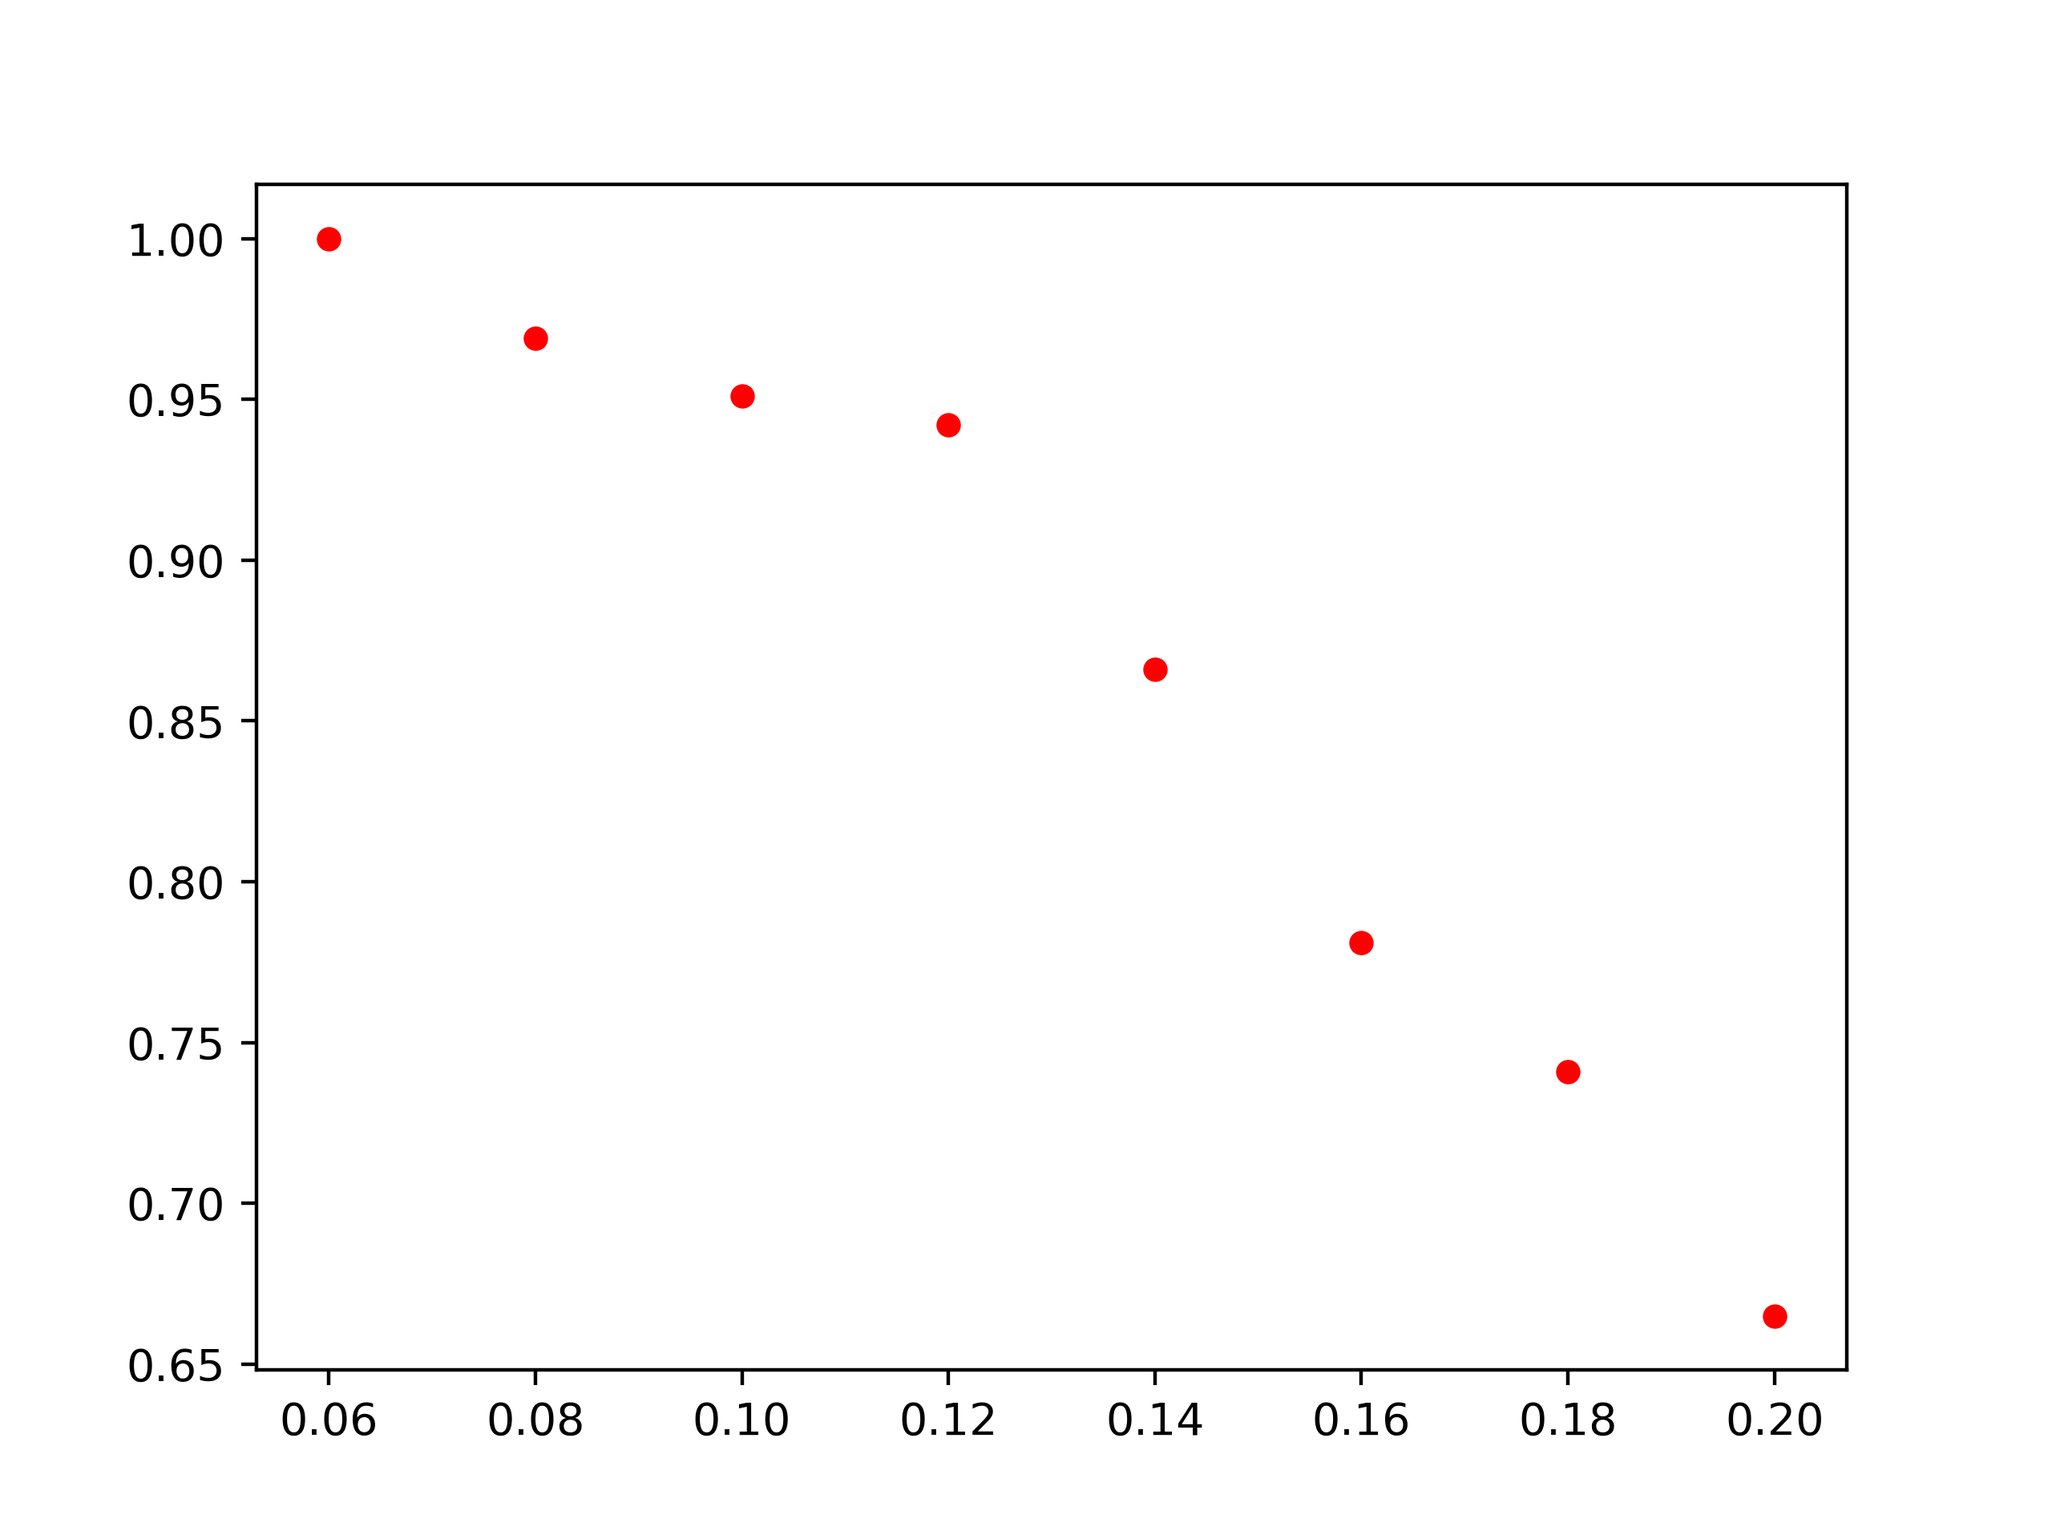
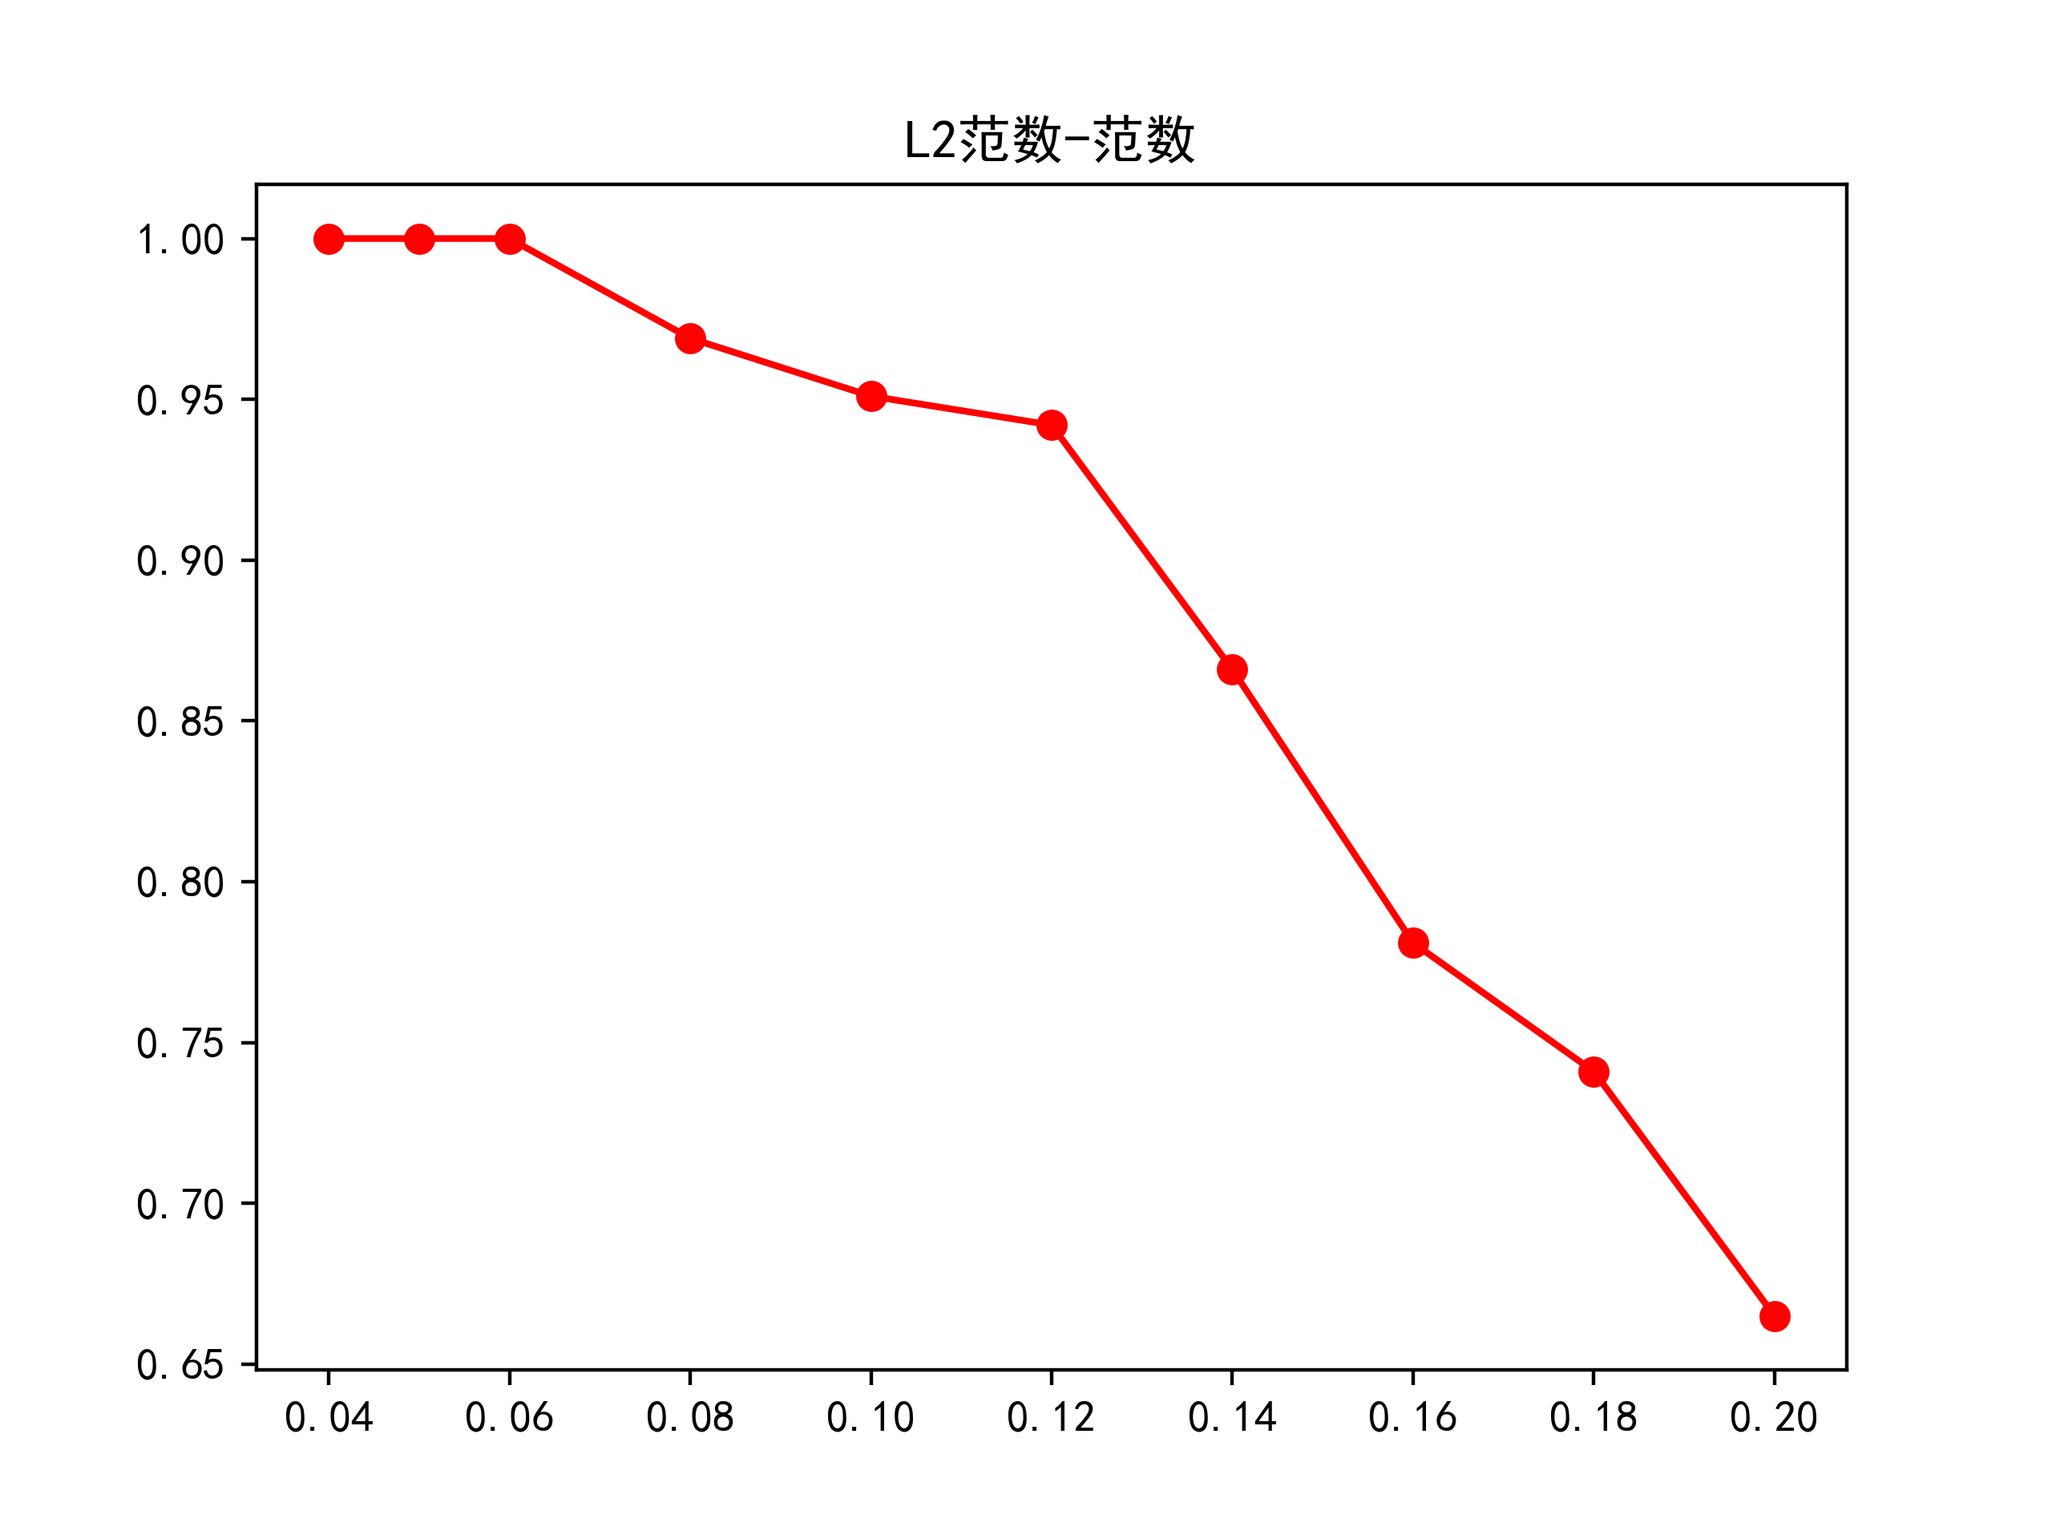
All Code

diff --git a/MCM/question2/unbounded_err_simulate.py b/MCM/question2/unbounded_err_simulate.py
@@ -1,21 +1,27 @@
-from array import array
-from cmath import tan
 import numpy as np
 import matplotlib.pyplot as plt
 import random
 
-from test import angle
 
-#计算不限定误差率情况下正确率
 
-MaxTestNum = 100
+#此程序计算不限定误差率情况下的正确率以及分布图
+#并且对正态分布下的标准差变化绘图
 
-# 夹角计算函数
+MaxTestNum = 100        #每种情形测试数量
+
+#夹角计算
+def angle(b, a, c):
+    res = np.arccos(np.dot((b-a), (c-a)) /
+                    (np.sqrt(np.sum((b-a)*(b-a)))*np.sqrt(np.sum((c-a)*(c-a)))))
+    return res
+
+# 夹角计算函数，保留三位小数
 def angle1(b, a, c):
     res = np.arccos(np.dot((b-a), (c-a)) /
                     (np.sqrt(np.sum((b-a)*(b-a)))*np.sqrt(np.sum((c-a)*(c-a)))))
     return round(res, 3)
 
+# 定位函数，返回以FY00为原点的笛卡尔坐标系坐标 （若三点一线会报错，无法处理）
 def coordinate(t,alpha,beta,gamma):
     A = np.zeros((4, 1))
     x = np.zeros((4, 1))
@@ -26,54 +32,69 @@ def coordinate(t,alpha,beta,gamma):
         A[i] = (np.cos(t)/np.tan(b[i]) - np.sin(t) - 1/np.tan(a[i]))/(np.cos(t)+np.sin(t)/np.tan(b[i])-1)
         y[i] = (A[i] - 1/np.tan(a[i]))/(A[i]*A[i]+1)
         x[i] = A[i]*y[i]
-    O = np.array([0,0])
+    Ori = np.array([0,0])
     A = np.array([1,0])
     B = np.array([np.cos(t),np.sin(t)])
+    xx = 0
+    yy = 0
     for i in range(4):
-        C = np.array([x[i],y[i]])
-        if abs(angle1(A,C,O)-alpha) < 1e-5 and abs(angle(B,C,O)-beta)<1e-5 and abs(angle(A,C,B)-gamma) < 1e-5 :
-            xx = x[i]
-            yy = y[i]
+        C = np.array([x[i][0],y[i][0]])
+        if abs(angle(A,C,Ori)-alpha) < 1e-3 and abs(angle(B,C,Ori)-beta)<1e-3 and abs(angle(A,C,B)-gamma) < 1e-3 :
+            if xx == 0 and yy == 0:
+                xx = x[i][0]
+                yy = y[i][0]
+            else:
+                if abs(xx**2+yy**2-1) > abs(x[i][0]**2+ y[i][0]**2-1):
+                    xx = x[i][0]
+                    yy = y[i][0]
     return np.array([xx,yy])
 
-def normal_distribution(mu1,mu2,sigma1,sigma2,row):
+def normal_distribution(mu1,mu2,sigma):
     mean = [mu1,mu2]
-    cov =  [[sigma2**2,-row*sigma1*sigma2],[-row*sigma1*sigma2,sigma1**2]]
-    x,y = np.random.multivariate_normal(mean,cov,size=1)
-    return x,y
+    cov =  [[sigma**2,0],[0.0,sigma**2]]
+    Pt = np.random.multivariate_normal(mean,cov,1)
+    return round(Pt[0][0],2),round(Pt[0][1],2)
 
 # 初始化
-def init(i):
+# 返回四个信息，分别是AccNo, Angle, AccPoint , CorrectPoint
+# 前两者为接受无人机收到的信息，AccPoint为绘图信息, CorrectPoint为理想点坐标
+def init(i,sigma):
     # 固定发射无人机编号i
     # TransimitNo = [0, 1, i]
     TransimitPoint = [np.array([0, 0]), np.array([1, 0]), np.array([np.cos((i-1)*np.pi/4.5), np.sin((i-1)*np.pi/4.5)])]
     # 随机接受无人机编号并且以error误差确定其坐标
-    AccNo = random.randint(3, 9)
+    AccNo = random.randint(2, 9)
     while AccNo == i:
-        AccNo = random.randint(3, 9)
+        AccNo = random.randint(2, 9)
     CorrectPoint = np.array([np.cos((AccNo-1)*np.pi/4.5),np.sin((AccNo-1)*np.pi/4.5)])
     # 正态分布
-    x,y = normal_distribution(CorrectPoint[0],CorrectPoint[1],0.1,0.1,1)
+    x,y = normal_distribution(CorrectPoint[0],CorrectPoint[1],sigma)
     AccPoint = np.array([x,y])
+
     # 计算获得的三个角度 顺序为 0-j-1,0-j-i,1-j-i
-    Angle = np.array([angle1(TransimitPoint[0], AccPoint, TransimitPoint[1])])
-    Addarr = np.array([angle1(TransimitPoint[0], AccPoint, TransimitPoint[2]), angle1(TransimitPoint[1], AccPoint, TransimitPoint[2])])
-    # 前两者为接受无人机收到的信息，AccPoint为绘图信息
+    Angle = np.array([angle(TransimitPoint[0], AccPoint, TransimitPoint[1]),angle(TransimitPoint[0], AccPoint, TransimitPoint[2]),\
+        angle(TransimitPoint[1], AccPoint, TransimitPoint[2])])
+
+    # 前两者为接受无人机收到的信息，AccPoint为绘图信息,CorrectPoint为理想点坐标
     return AccNo, Angle, AccPoint , CorrectPoint
 
+# 获取两点之间距离
 def getdistance(pt1,pt2):
-    return 
+    return np.sum(np.square(pt1-pt2))
 
-# 其他根据角度信息Coordinate
+# 其他节点根据角度信息Coordinate，和正确坐标进行比较，如果存在距离小于等于distance，返回错误，如果距离都大于distance，返回正确
 def CompareWithOtherPointCoordinate(distance,Angles,Except,TruePt):
     for i in range(2,10):
         if i != Except[0] and i != Except[1]:
             CoordinatePt = coordinate((i-1)*np.pi/4.5,Angles[0],Angles[1],Angles[2])
+            if CoordinatePt[0] == 0 and CoordinatePt[1] == 0:
+                continue
             Comparedistance = getdistance(CoordinatePt,TruePt)
-            if Comparedistance < distance:
+            if Comparedistance <= distance:
                 return False
     return True
 
+# 绘制子图信息
 def trans(i):
     if i == 0:
         return [0, 0]
@@ -84,28 +105,75 @@ def trans(i):
     if i == 3:
         return [1, 1]
 
-
+# 模拟程序(绘图版本)
 def run_simulation():
-    CorrectPoint = [np.array([0, 0])]
+    CorrectPoints = [np.array([0, 0])]
     for point in range(1, 10):
-        CorrectPoint.append(np.array([np.cos((point-1)*np.pi/4.5), np.sin((point-1)*np.pi/4.5)]))
+        CorrectPoints.append(np.array([np.cos((point-1)*np.pi/4.5), np.sin((point-1)*np.pi/4.5)]))
 
     # 使支持中文
     plt.rcParams['font.sans-serif'] = ['SimHei']
     plt.rcParams['axes.unicode_minus'] = False
     
     # 绘制子图
-    plt.figure()
     fig, axs = plt.subplots(2, 2 ,figsize=(12,12))
 
     for i in range(2, 6):
         for _ in range(MaxTestNum):
-            No, Angles, AccPoint,CorrectPoint = init(i)
+            No, Angles, AccPoint, CorrectPoint = init(i,0.1)
             TrueCoordinate = coordinate((i-1)*np.pi/4.5,Angles[0],Angles[1],Angles[2])
+            if TrueCoordinate[0] == 0 and TrueCoordinate[1] == 0:
+                print('---bug---')
             distance = getdistance(TrueCoordinate,CorrectPoint)
             reliable = CompareWithOtherPointCoordinate(distance,Angles,[i,No],CorrectPoint)
             if reliable:
-                axs[trans(i-2)[0], trans(i-2)[1]].scatter(AccPoint[0],AccPoint[1],s=10,c='r')
+                p2 = axs[trans(i-2)[0], trans(i-2)[1]].scatter(AccPoint[0],AccPoint[1],s=10,c='r')
             else:
-                axs[trans(i-2)[0], trans(i-2)[1]].scatter(AccPoint[0],AccPoint[1],c='b')
-    plt.show()
+                p3 = axs[trans(i-2)[0], trans(i-2)[1]].scatter(AccPoint[0],AccPoint[1],s=10,c='b')
+        x = [point[0] for point in CorrectPoints]
+        y = [point[1] for point in CorrectPoints]
+        TranMitX = [CorrectPoints[0][0],CorrectPoints[1][0],CorrectPoints[i][0]]
+        TranMitY = [CorrectPoints[0][1],CorrectPoints[1][1],CorrectPoints[i][1]]
+        p1_2 = axs[trans(i-2)[0], trans(i-2)[1]].scatter(x, y, c='g',s = 20)
+        p1_1 = axs[trans(i-2)[0], trans(i-2)[1]].scatter(TranMitX, TranMitY, c='k',s = 20)
+    fig.legend([p1_1,p1_2,p2,p3], [u'发射机',u'接受机正确位置',u'接收机偏移有效定位位置',u'接收机偏移出错定位位置'])
+    path='./unbounded_err_distribution.png'
+    plt.savefig(path,dpi=400)
+
+# 模拟程序(无绘图版本)
+def run_simulation_WithoutPlot(sigma):
+    Correctency = 0
+    for i in range(2, 6):
+        for _ in range(MaxTestNum):
+            No, Angles, AccPoint, CorrectPoint = init(i,sigma)
+            TrueCoordinate = coordinate((i-1)*np.pi/4.5,Angles[0],Angles[1],Angles[2])
+            # 若三点一线会报错，无法处理
+            if TrueCoordinate[0] == 0 and TrueCoordinate[1] == 0:
+                print('---Three Point In Line!---')
+            distance = getdistance(TrueCoordinate,CorrectPoint)
+            reliable = CompareWithOtherPointCoordinate(distance,Angles,[i,No],CorrectPoint)
+            if reliable:
+                Correctency = Correctency + 1
+    return round(float(Correctency)/4/MaxTestNum,3)
+
+# 标准差减少计算正确率曲线
+def std_correctency():
+    plt.rcParams['font.sans-serif'] = ['SimHei']
+    plt.rcParams['axes.unicode_minus'] = False
+    
+    stds = np.linspace(0.1,0.6,6)
+    Correctencys = []
+    for sigma in stds:
+        Correctency = run_simulation_WithoutPlot(sigma)
+        Correctencys.append(Correctency)
+    plt.plot(stds,Correctencys,"or-",label="标准差-正确率曲线")
+    plt.xlabel("标准差")
+    plt.ylabel("正确率")
+    plt.legend(loc='best')
+    path='./unbounded_err.png'
+    plt.savefig(path,dpi=400)
+
+#分布图
+# run_simulation()
+#描绘出标准差-正确率
+std_correctency()

diff --git a/MCM/question2/simulate.py b/MCM/question2/simulate.py
@@ -13,7 +13,7 @@ def angle1(b, a, c):
                     (np.sqrt(np.sum((b-a)*(b-a)))*np.sqrt(np.sum((c-a)*(c-a)))))
     return round(res, 3)
 
-
+#计算范数+处理
 def caculateV(v1, v2, kind):
     # 去除最大的计算范数
     a = np.delete(v1, np.argmax(v1))
@@ -25,7 +25,6 @@ def caculateV(v1, v2, kind):
         return V2(a, b)
     else:
         return V3(a, b)
-
 
 # 1-范数
 def V1(a, b):
@@ -40,7 +39,6 @@ def V2(a, b):
 # 无穷范数
 def V3(a, b):
     return np.max(np.abs(a-b))
-
 
 # 计算所有三元数个数
 def create_three_element_tuple():
@@ -70,38 +68,10 @@ def create_three_element_tuple():
             mydic[tuple(list(mylist[k, 2:]))] = [tuple(list(mylist[k, 0:2]))]
     return mydic
 
-
-# 初始化
-def init(i):
-    # 固定发射无人机编号i
-    # TransimitNo = [0, 1, i]
-    TransimitPoint = [np.array([0, 0]), np.array([1, 0]), np.array([np.cos((i-1)*np.pi/4.5), np.sin((i-1)*np.pi/4.5)])]
-    # 随机接受无人机编号并且以error误差确定其坐标
-    AccNo = random.randint(3, 9)
-    while AccNo == i:
-        AccNo = random.randint(3, 9)
-    AccPoint = np.array([np.cos((AccNo-1)*np.pi/4.5)+AccRangeErr*(2*random.random()-1),
-                        np.sin((AccNo-1)*np.pi/4.5)+AccRangeErr*(2*random.random()-1)])
-    # 计算获得的三个角度
-    Angle = np.array([angle1(TransimitPoint[0], AccPoint, TransimitPoint[1])])
-    Addarr = np.array([angle1(TransimitPoint[0], AccPoint, TransimitPoint[2]), angle1(TransimitPoint[1], AccPoint, TransimitPoint[2])])
-    Addarr = np.sort(Addarr)
-    Angle = np.append(Angle, Addarr)
-
-    # 前两者为接受无人机收到的信息，AccPoint为绘图信息
-    return AccNo, Angle, AccPoint
-
-
 def init_re(i, AccNo, AccPoint):
     # 固定发射无人机编号i
     # TransimitNo = [0, 1, i]
     TransimitPoint = [np.array([0, 0]), np.array([1, 0]), np.array([np.cos((i-1)*np.pi/4.5), np.sin((i-1)*np.pi/4.5)])]
-    # 随机接受无人机编号并且以error误差确定其坐标 -- 放弃
-    # AccNo = random.randint(3, 9)
-    # while AccNo == i:
-    #     AccNo = random.randint(3, 9)
-    # AccPoint = np.array([np.cos((AccNo-1)*np.pi/4.5)+AccRangeErr*(2*random.random()-1),
-    #                     np.sin((AccNo-1)*np.pi/4.5)+AccRangeErr*(2*random.random()-1)])
     # 计算获得的三个角度
     Angle = np.array([angle1(TransimitPoint[0], AccPoint, TransimitPoint[1])])
     Addarr = np.array([angle1(TransimitPoint[0], AccPoint, TransimitPoint[2]), angle1(TransimitPoint[1], AccPoint, TransimitPoint[2])])
@@ -138,35 +108,6 @@ def compare(angles, No, kind):
         if tuple[1] == No:
             return tuple[0]
     return -1
-
-
-# 模拟算法 
-# kind = 1 1-范数 kind = 2 2-范数 kind = 3 无穷范数
-def runSimulation(kind):
-    CorrectPoint = [np.array([0, 0])]
-    for point in range(1, 10):
-        CorrectPoint.append(np.array([np.cos((point-1)*np.pi/4.5), np.sin((point-1)*np.pi/4.5)]))
-    for i in range(2, 10):
-        for _ in range(MaxTestNum):
-            No, Angles, AccPoint = init(i)
-            Caculate = compare(Angles, No, kind)
-            # 算法推断正确
-            if Caculate == i:
-                plt.scatter(AccPoint[0], AccPoint[1], c='r')
-            # 计算错误
-            else:
-                print(No)
-                print(Caculate)
-                print(Angles)
-                print(AccPoint)
-                plt.scatter(AccPoint[0], AccPoint[1], c='b')
-            x = [point[0] for point in CorrectPoint]
-            y = [point[1] for point in CorrectPoint]
-            cArr = ['g' for _ in CorrectPoint]
-            cArr[0] = cArr[1] = cArr[i] = 'k'
-            plt.scatter(x, y, c=cArr)
-        plt.show()
-
 
 def trans(i):
     if i == 0:
@@ -223,7 +164,6 @@ def runSimulation_re(kind):
     fig.legend([p1_1,p1_2,p2,p3], [u'发射机',u'接受机正确位置',u'接收机偏移有效定位位置',u'接收机偏移出错定位位置'])
     path = './{kind}.png'.format(kind = kind)
     plt.savefig(path,dpi = 400)
-    # plt.show()
 
 dict = create_three_element_tuple()
 for kind in range(1,4):

diff --git a/MCM/question2/err_correctency.py b/MCM/question2/err_correctency.py
@@ -1,4 +1,3 @@
-from importlib.resources import path
 import numpy as np
 from cmath import *
 import matplotlib.pyplot as plt
@@ -15,7 +14,7 @@ def angle1(b, a, c):
                     (np.sqrt(np.sum((b-a)*(b-a)))*np.sqrt(np.sum((c-a)*(c-a)))))
     return round(res, 3)
 
-
+#计算范数+处理
 def caculateV(v1, v2, kind):
     # 去除最大的计算范数
     a = np.delete(v1, np.argmax(v1))
@@ -122,11 +121,11 @@ def compare(angles, No, kind):
 # 返回相应的正确率
 def run_simulate(kind,AccRangeErr):
     Correctency = 0
-    theta = np.linspace(0,2*np.pi,8,endpoint=False)
+    theta = np.linspace(0,2*np.pi,16,endpoint=False)
     for i in range(2, 6):
         for j in range(2, 10):
             if j != i:
-                for k in range(8):
+                for k in range(16):
                     AccPoint = np.array([np.cos((j-1)*np.pi/4.5), np.sin((j-1)*np.pi/4.5)]) + \
                         AccRangeErr *np.array([np.cos(theta[k]),np.sin(theta[k])])
                     No, Angles  = init(i, j, AccPoint)
@@ -137,15 +136,29 @@ def run_simulate(kind,AccRangeErr):
                     # 计算错误
                     else:
                         continue
-    return round(float(Correctency)/224,3)
+    return round(float(Correctency)/224/2,3)
+
+
+# 入口
 
 dict = create_three_element_tuple()
-for kind in range(1,4):
-    plt.figure()
-    AccRangeErrs = [0.06,0.08,0.1,0.12,0.14,0.16,0.18,0.2]
+color = ['r','y','b']
+legends = [u"L1范数",u"L2范数",u"无穷范数"]
+kinds = [3,1,2]
+# 绘图
+for kind in kinds:
+    # 使支持中文
+    plt.rcParams['font.sans-serif'] = ['SimHei']
+    plt.rcParams['axes.unicode_minus'] = False
+    AccRangeErrs = [0.04,0.05,0.06,0.08,0.1,0.12,0.14,0.16,0.18,0.2]
+    Correctencys = []
     for AccRangeErr in AccRangeErrs:
         Correctency = run_simulate(kind,AccRangeErr)
         print('kind = {kind},AccRangErr={err},Correctency={c}'.format(kind=kind,err=AccRangeErr,c=Correctency))
-        plt.scatter(AccRangeErr,Correctency,s=20,c='r')
-    path = './err-Correntency-{kind}.png'.format(kind=kind)
-    plt.savefig(path,dpi=400)
+        Correctencys.append(Correctency)
+    plt.plot(AccRangeErrs,Correctencys,"o-",label="{kind}".format(kind=legends[kind-1]))
+
+plt.legend(loc='best')
+plt.title(u"不同范数偏差率-正确率关系图")
+path = './Err-Correntency.png'
+plt.savefig(path,dpi=400)
